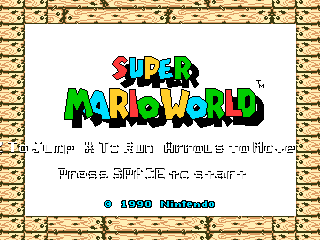
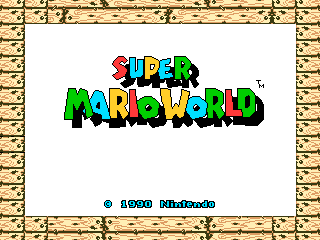
ya

diff --git a/test.py b/test.py
@@ -1,3 +1,10 @@
+# Written by Roderick Pike.
+#
+# There are some things I don't like about this codebase,
+# nontheless I think it's good for a final programming
+# assignment.
+#
+
 import os
 import pygame
 import sys
@@ -23,6 +30,11 @@ skidding = False
 
 winx = 640
 winy = 480
+
+coins = 0
+score = 0
+lives = 5
+time = 500
 
 # Why falling AND grounded? It's for animation. If the Y acceleration is positive, we are falling.
 falling = True
@@ -65,15 +77,6 @@ colliders = [
     (8641, 705, 64, 61),
     (8735, 674, 64, 93),
 
-    # Question Boxes
-    (1216, 641, 32, 33, 1),
-    (1282, 641, 32, 33, 1),
-    (1697, 674, 32, 33, 1),
-    (1730, 674, 32, 33, 1),
-    (5699, 674, 32, 33, 1),
-    (5731, 674, 32, 33, 1),
-    (5761, 674, 32, 33, 1),
-
     # Coins
     (2471, 640, 22, 32, 3),
     (2502, 610, 22, 32, 3),
@@ -93,15 +96,19 @@ colliders = [
     (7005, 454, 36, 51, 10),
 
     # special stuff
-    (5138, 635, 64, 136, 4),
-    (9656, 479, 42, 292, 6),
+#    (5138, 635, 64, 136, 4),
+#    (9656, 479, 42, 292, 6),
 
     # koopas
     (765, 740, 32, 28, 7),
-    (805, 740, 32, 28, 7),
     (845, 740, 32, 28, 7),
-    (885, 740, 32, 28, 7),
     (925, 740, 32, 28, 7),
+
+    (1267, 740, 32, 28, 7),
+    (1980, 740, 32, 28, 7),
+    (3326, 740, 32, 28, 7),
+    (3675, 740, 32, 28, 7),
+
 
     # berries
     (351, 705, 29, 21, 11),
@@ -128,27 +135,17 @@ screen = pygame.display.set_mode((winx, winy))
 clock = pygame.time.Clock()
 pygame.mixer.music.load("sound/track1.mp3")
 
-print("test1")
-
 jump_sound = pygame.mixer.Sound(os.path.join(os.getcwd(), 'sound', 'jump.wav'))
 jump_sound.set_volume(0.5)
-
-print("test2")
 
 coin_sound = pygame.mixer.Sound(os.path.join(os.getcwd(), 'sound', 'coin.wav'))
 coin_sound.set_volume(0.5)
 
-print("test3")
-
 bump_sound = pygame.mixer.Sound(os.path.join(os.getcwd(), 'sound', 'bump.wav'))
 bump_sound.set_volume(0.5)
 
-print("test4")
-
-#pygame.mixer.music.set_volume(0.5)
-#pygame.mixer.music.play(-1)
-
-print("test5")
+pygame.mixer.music.set_volume(0.5)
+pygame.mixer.music.play(-1)
 
 
 # images
@@ -219,6 +216,9 @@ background = pygame.transform.scale2x(pygame.image.load(os.path.join("imgs", "bg
 
 stage = pygame.transform.scale2x(pygame.image.load(os.path.join("imgs", "test.png")))
 mario = pygame.transform.scale2x(pygame.image.load(os.path.join("imgs", "marioidle.png")))
+
+hud = pygame.transform.scale2x(pygame.image.load(os.path.join("imgs", "hud.png")))
+
 direction = 1
 prev_direction = 1
 
@@ -227,7 +227,7 @@ prev_direction = 1
 mario_width = 32
 mario_height = 47
 
-font = pygame.font.Font(None, 24) # Default font with size 36
+font = pygame.font.Font(os.path.join(os.getcwd(), 'world.ttf'), 16) # Custom font
 
 dragging = False
 drag_start = (0, 0)
@@ -249,6 +249,10 @@ koopa = pygame.transform.scale2x(pygame.image.load(os.path.join("imgs", "koopawa
 while Running:
     screen.fill((0, 0, 0))
     for event in pygame.event.get():
+        #
+        # This is never used in-game and is STRICTLY for
+        # when creating levels.
+        #
         if event.type == pygame.MOUSEBUTTONDOWN:
             if event.button == 1:
                 dragging = True
@@ -257,6 +261,11 @@ while Running:
                 ly = dy - y
                 drag_start = (lx, ly)
                 drag_end = (lx, ly)
+
+        if event.type == pygame.QUIT:
+            Running = False
+            pygame.quit()
+            sys.exit()
 
         if event.type == pygame.MOUSEMOTION:
             if dragging:
@@ -276,46 +285,31 @@ while Running:
 
     if gamestate == 0:
         screen.blit(titlebackground, (titlex, titley))
-        if fadeout == 0:
-            titletimer+=1
-            if titletimer >= 0 and titletimer <= 300:
-                titlex-=1
-                print("right")
-            elif titletimer >= 300 and titletimer <= 600:
-                titley-=1
-                print("down")
-            elif titletimer >= 600 and titletimer <= 900:
-                titlex+=1
-                print("left")
-            elif titletimer >= 600 and titletimer <= 1200:
-                titley+=1
-                print("up")
-            elif titletimer >= 1200:
-                titletimer = 0
 
         screen.blit(titlescreen, (titleborderx, titlebordery))
+
+        # how-to text and shadow
+        text_surface = font.render("X to run  Z to jump  arrows to move!", True, (0, 0, 0))
+        screen.blit(text_surface, (122, 302))
+
+        text_surface = font.render("X to run  Z to jump  arrows to move!", True, (255, 255, 255))
+        screen.blit(text_surface, (120, 300))
+
         keys = pygame.key.get_pressed()
         if keys[pygame.K_SPACE]:
-            fadeout = 1
+            gamestate=1
 
-        if fadeout == 1:
-            titley+=10
-            titlebordery+=10
-            if titley>600:
-                gamestate = 1
-            
         #    width, height = titlebackground.get_size()
         #    titlebackground = pygame.transform.scale(titlebackground, (width-2, height-2))
         #    screen.blit(titlebackground, (titlex, titley))
-
-        if titlefadetimer >= 100:
-            gamestate = 1
 
         pygame.display.flip()
         clock.tick(60)
     else:
             
 # -------- movement --------
+
+        time-=0.05
 
         keys = pygame.key.get_pressed()
         if keys[pygame.K_RIGHT]:
@@ -350,7 +344,6 @@ while Running:
 
         if skidding == True:
             skid_timer+=0.1
-            print(skid_timer)
 
         x -= velx
         if velx > limit:
@@ -360,6 +353,7 @@ while Running:
         # Jump logic
         if keys[pygame.K_z]:
             if grounded:
+                jump_sound.play()
                 mario_vely += -11
                 falling = False
                 grounded = False
@@ -373,7 +367,6 @@ while Running:
         marioy += mario_vely
 
         if marioy > 500:
-            print("we are dead")
             x = 0
             marioy = winy/2
 
@@ -417,11 +410,23 @@ while Running:
                     if len(collider) >= 5 and collider[4] == 5: # used checkpoint
                         break
                     if len(collider) >= 5 and collider[4] == 3: # coin
+                        coin_sound.play()
+                        coins+=1
+                        if coins > 99:
+                            coins = 0
+                            lives+=1
+                        score+=100
                         index = colliders.index(collider)
                         sx, sy, sw, sh, st = collider
                         colliders[index] = (sx, sy, sw, sh, 99)
                         break
                     if len(collider) >= 5 and collider[4] == 10: # dragon coin
+                        coin_sound.play()
+                        coins+=10
+                        if coins > 99:
+                            coins = 0
+                            lives+=1
+                        score+=1000
                         index = colliders.index(collider)
                         sx, sy, sw, sh, st = collider
                         colliders[index] = (sx, sy, sw, sh, 99)
@@ -433,21 +438,16 @@ while Running:
                         index = colliders.index(collider)
                         sx, sy, sw, sh, st = collider
                         colliders[index] = (sx, sy, sw, sh, 5)
-                        print(colliders[index])
-                        print("yar")
                         break
 
                     if len(collider) >= 5 and collider[4] == 6: # goalpost
                         index = colliders.index(collider)
                         sx, sy, sw, sh, st = collider
                         colliders[index] = (sx, sy, sw, sh, 5)
-                        print(colliders[index])
-                        print("ending")
                         break
                     
                     x += velx
                     velx = 0;
-                    print("collided side")
 
             if mario_rect.colliderect(platform_rect):
                 if len(collider) >= 5 and collider[4] == 99:
@@ -486,17 +486,21 @@ while Running:
 # -------- background stuff --------
 
         # various positions for paralax-like effect
-        screen.blit(background, (x/4, -400))
-        screen.blit(background, (x/4 + 1024, -400))
-        screen.blit(background, (x/4 + 2048, -400))
-        
+        screen.blit(background, (x/4, -359))
+        screen.blit(background, (x/4 + 1024, -350))
+        screen.blit(background, (x/4 + 2048, -350))
+
         screen.blit(stage, (x, y))
-        text_surface = font.render(str(mariox), True, (255, 255, 240))
-        screen.blit(text_surface, (25, 25))
-        text_surface = font.render(str(marioy), True, (255, 255, 240))
-        screen.blit(text_surface, (25, 45))
-        text_surface = font.render(str(velx), True, (255, 255, 240))
-        screen.blit(text_surface, (25, 65))
+        screen.blit(hud, (0, 0))
+        text_surface = font.render(str(coins), True, (255, 255, 240))
+        screen.blit(text_surface, (514, 24))
+        text_surface = font.render(str(score), True, (255, 255, 240))
+        screen.blit(text_surface, (434, 40))
+        text_surface = font.render(str(round(time)), True, (255, 255, 240))
+        screen.blit(text_surface, (372, 40))
+        text_surface = font.render(str(lives), True, (255, 255, 240))
+        screen.blit(text_surface, (138, 40))
+
 
 # ANIMATIONS, for objects
 
@@ -565,6 +569,8 @@ while Running:
 
         pygame.display.flip()
 
-        clock.tick(60)  # limits FPS to 60
+        # This code isn't very efficient and it lags a bunch.
+        # set a lower baseline so lag spikes are lessened
+        clock.tick(50)
 
 pygame.quit()
